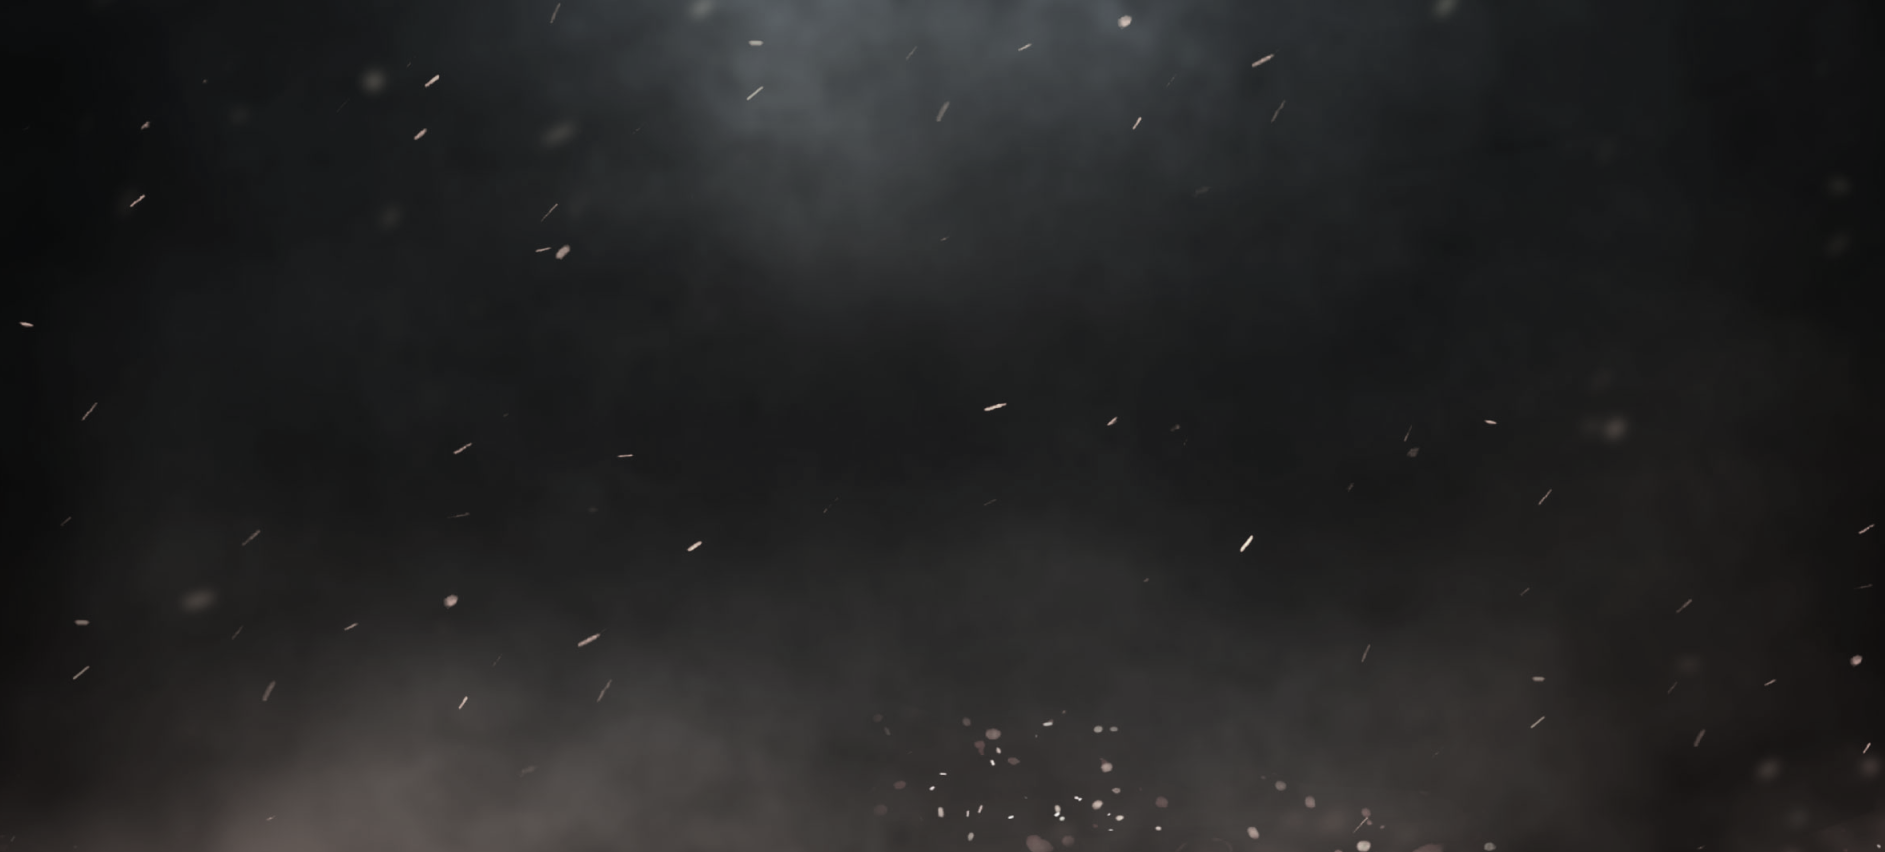
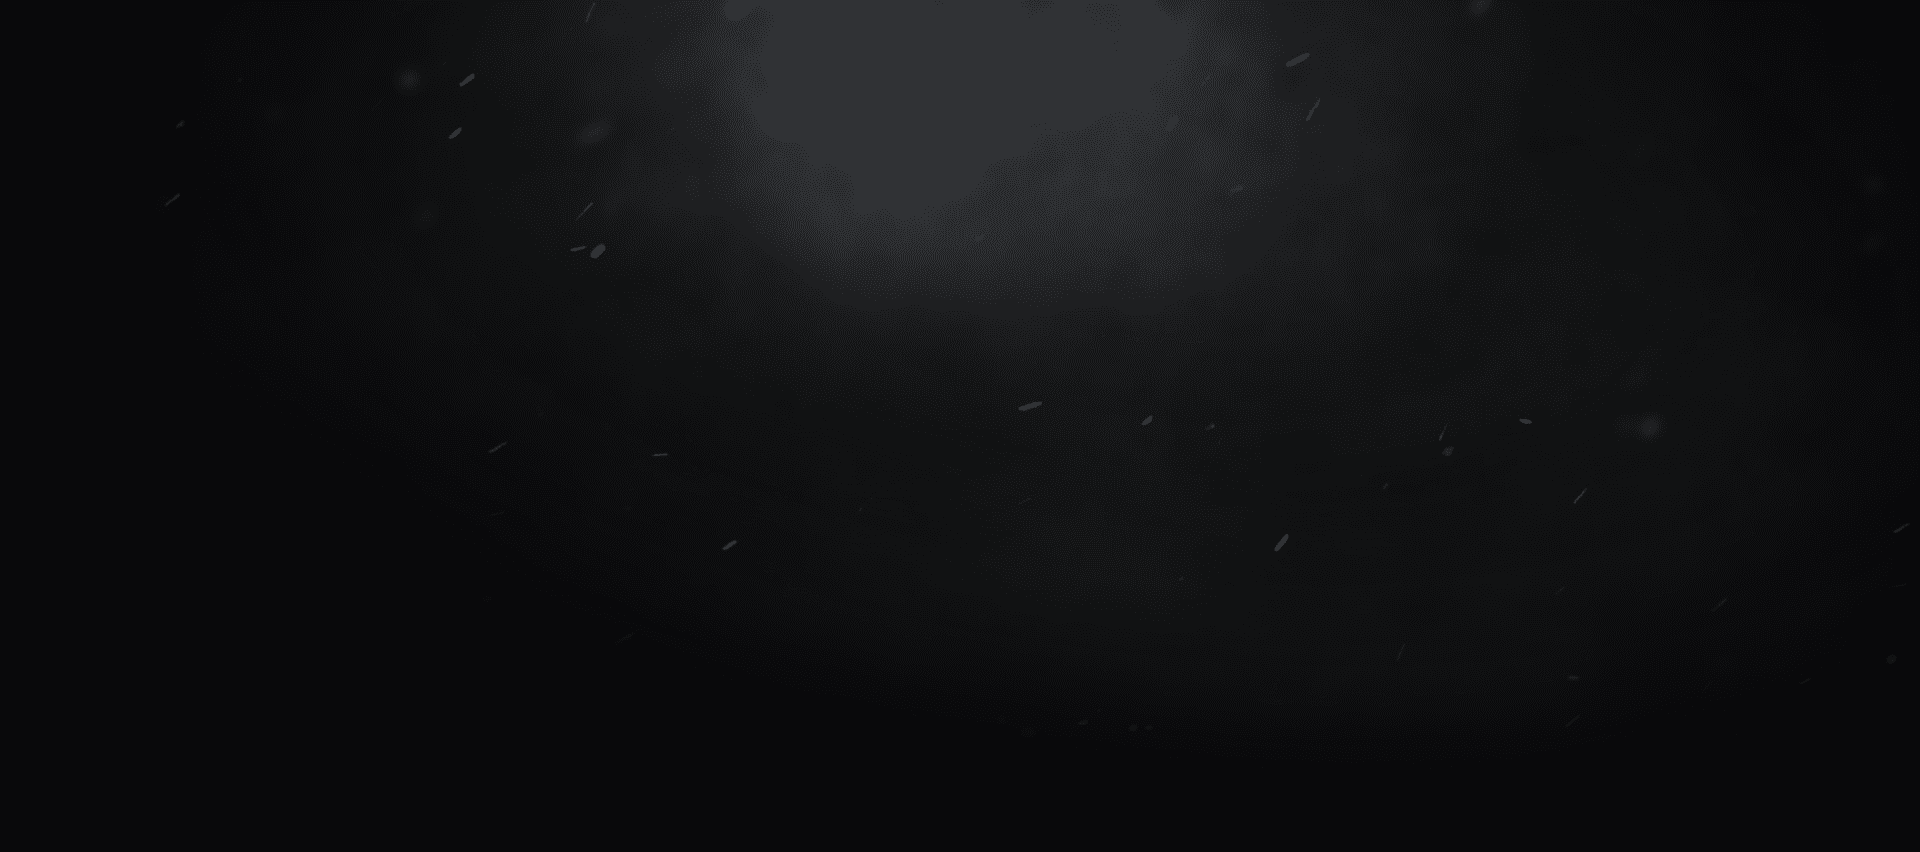
feat: Criando a seção Download

diff --git a/src/components/Dowload/styles.module.scss b/src/components/Dowload/styles.module.scss
@@ -1,0 +1,114 @@
+.container {
+    display: flex;
+
+    width: 100%;
+    height: 865px;
+    margin-top: 108px;
+
+    background-image: url('/ilustration-site-mini.png'), url('/ilustration-site.png'), url('/background-section-download.png');
+    background-repeat: no-repeat;
+    background-position: 910px bottom, 630px, center;
+    background-size: auto, auto, cover;
+
+    > div {
+        width: 100%;
+        max-width: 1266px;
+    
+        margin: 0 auto;
+
+        display: flex;
+        align-items: center;
+    }
+}
+
+.content {
+    display: flex;
+    flex-direction: column;
+    row-gap: 30px;
+
+    img {
+        width: 133px;
+        height: auto;
+    }
+
+    h2 {
+        font-size: 2rem;
+        line-height: 2.25rem;
+    }
+
+    ul {
+        list-style: none;
+
+        display: flex;
+        flex-direction: column;
+        row-gap: 24px;
+
+        li {
+            display: flex;
+            align-items: center;
+            column-gap: 16px;
+
+            font-size: 1.125rem;
+            line-height: 2rem;
+            color: var(--quartenary);
+
+            svg {
+                width: 18px;
+                height: auto;
+                color: var(--link);
+            }
+        }
+    }
+
+    button {
+        display: flex;
+        align-items: center;
+        justify-content: center;
+        column-gap: 8px;
+
+        width: 266px;
+        height: 52px;
+
+        margin: 10px 0 18px;
+
+        border: 0;
+        border-radius: 4px;
+        background: var(--link);
+
+        font-size: 1rem;
+        line-height: 1.5rem;
+        font-weight: 600;
+
+        svg {
+            width: 20px;
+            height: auto;
+            color: var(--primary);
+        }
+    }
+
+    .download-mobile {
+        display: flex;
+        align-items: center;
+        column-gap: 18px;
+
+        svg {
+            width: 14px;
+            height: auto;
+            color: var(--primary);
+        }
+
+        p {
+            font-size: 0.875rem;
+            line-height: 1.375rem;
+            font-weight: 600;
+            color: var(--tertiary);
+
+            width: 100%;
+            max-width: 238px;
+
+            a {
+                text-decoration: underline;
+            }
+        }
+    }
+}

diff --git a/src/static/index.tsx b/src/static/index.tsx
@@ -1,31 +1,31 @@
-// import IconApple from './icons/apple.svg'
+import IconApple from './icons/apple.svg'
 import IconArrowDown from './icons/arrow-down.svg'
 import IconBattleNet from './icons/battlenet.svg'
-// import IconBuy from './icons/buy.svg'
-// import IconCheckGroup from './icons/check-group.svg'
-// import IconSmartPhone from './icons/smart-phone.svg'
+import IconBuy from './icons/buy.svg'
+import IconCheckGroup from './icons/check-group.svg'
+import IconSmartPhone from './icons/smart-phone.svg'
 import IconLink from './icons/link.svg'
 import IconNintendo from './icons/nintendo.svg'
 import IconPlay from './icons/play.svg'
 import IconPlaystation from './icons/playstation.svg'
 import IconPoints from './icons/points.svg'
-// import IconDots from './icons/dots.svg'
+import IconDots from './icons/dots.svg'
 import IconUser from './icons/user.svg'
 import IconXbox from './icons/xbox.svg'
 
 export {
-  //   IconApple,
+  IconApple,
   IconArrowDown,
   IconBattleNet,
-  //   IconBuy,
-  //   IconCheckGroup,
-  //   IconSmartPhone,
+  IconBuy,
+  IconCheckGroup,
+  IconSmartPhone,
   IconLink,
   IconNintendo,
   IconPlay,
   IconPlaystation,
   IconPoints,
-  //   IconDots,
+  IconDots,
   IconUser,
   IconXbox
 }

diff --git a/src/components/Dowload/index.tsx b/src/components/Dowload/index.tsx
@@ -1,0 +1,42 @@
+import {
+  IconApple,
+  IconBuy,
+  IconCheckGroup,
+  IconDots,
+  IconSmartPhone
+} from 'static'
+import styles from './styles.module.scss'
+
+export const Download = () => (
+  <section className={styles.container}>
+    <div>
+      <div className={styles.content}>
+        <img src="/logo-battle-net.png" alt="" />
+        <h2>Baixe agora o battle.net</h2>
+
+        <ul>
+          <li>
+            <IconCheckGroup /> Seus jogos em um só lugar
+          </li>
+          <li>
+            <IconDots /> Conectar-se aos seus amigos
+          </li>
+          <li>
+            <IconBuy /> Compre jogos e items digitais
+          </li>
+        </ul>
+
+        <button>
+          <IconApple /> Baixar para o MacOS
+        </button>
+
+        <div className={styles['download-mobile']}>
+          <IconSmartPhone />
+          <p>
+            Também disponível como <a href="">aplicativo móvel</a>
+          </p>
+        </div>
+      </div>
+    </div>
+  </section>
+)

diff --git a/src/pages/index.tsx b/src/pages/index.tsx
@@ -1,6 +1,7 @@
 import Head from 'next/head'
 import { Banner } from 'components/Banner'
 import { Games } from 'components/Games'
+import { Download } from 'components/Dowload'
 
 export default function Home() {
   return (
@@ -10,6 +11,7 @@ export default function Home() {
       </Head>
       <Banner />
       <Games />
+      <Download />
     </>
   )
 }
